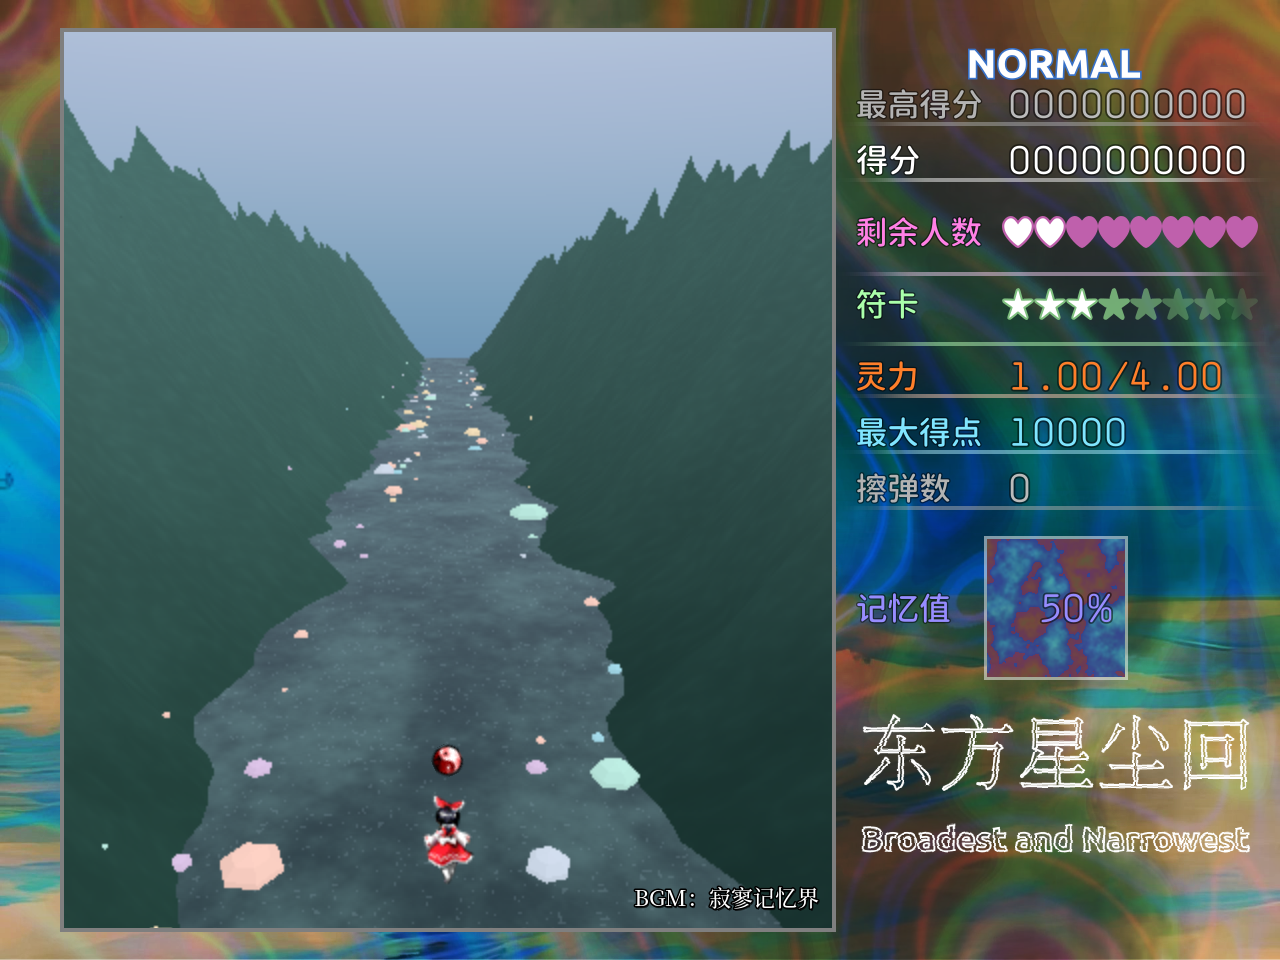
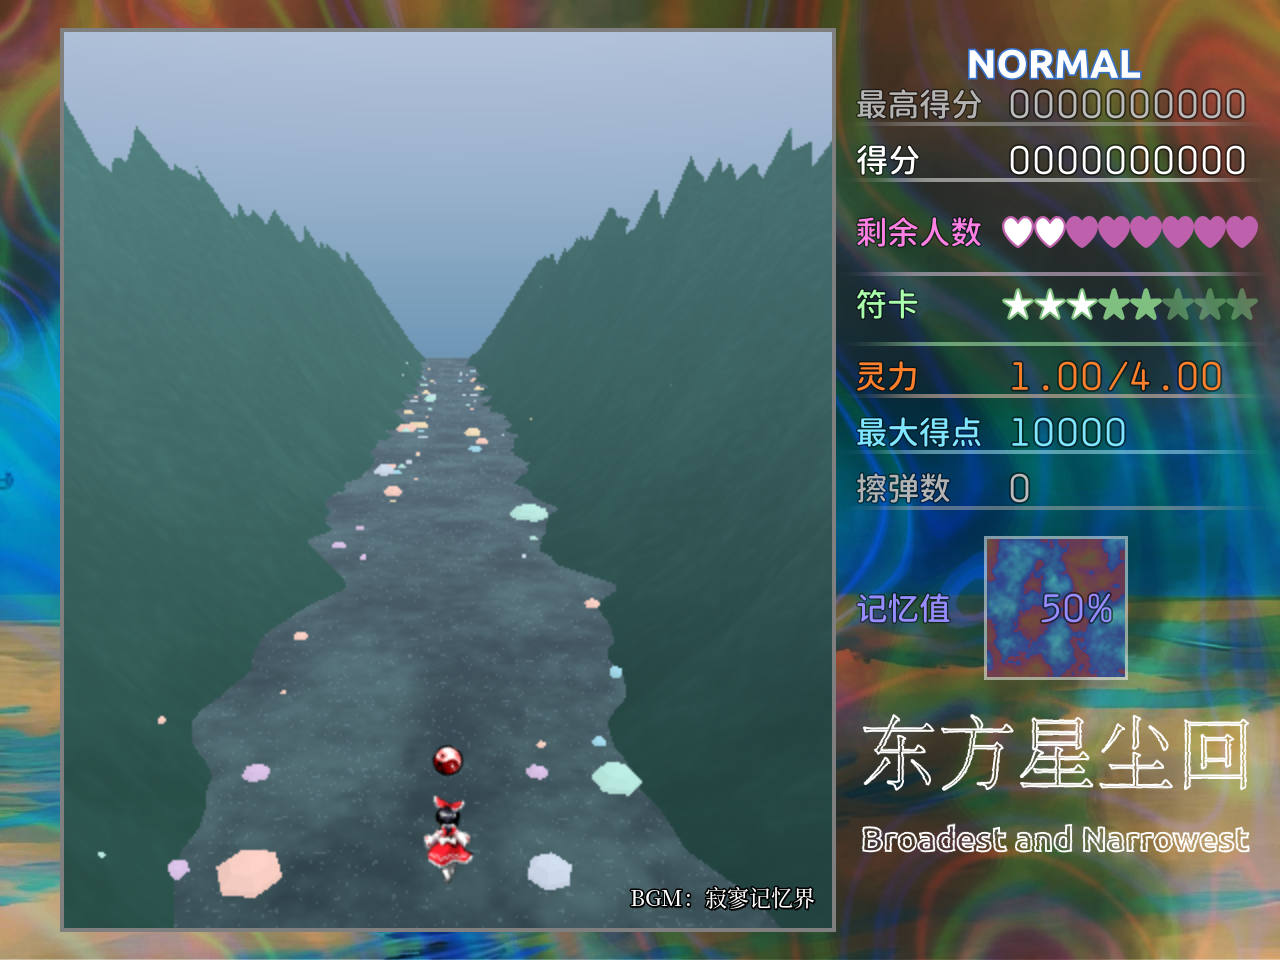
feat(background): drive stage4 sky light into valley materials

diff --git a/docs/BEST_PRACTICES_LOG.md b/docs/BEST_PRACTICES_LOG.md
@@ -124,7 +124,7 @@
 - **主菜单残留记忆值**：持久 HUD 的 `Memory` 是嵌套 CanvasLayer，只隐藏外层 GameUI 不会隐藏它；新增 `GameUI.set_hud_visible()` 同时同步 Memory 层，回归测试覆盖。
 - **再次播放录像**：回放结束页重播前设置 `_continuing_replay = true`，避免旧 GameScene `_exit_tree` 把刚启动的 ReplaySession stop 掉；同时 `_exit_tree` 不再在继续回放时 `PracticeSession.finish()`，否则符卡练习录像会被清空、新场景退回普通 Stage 1。
 - **回放水印渐隐**：REPLAY 标的呼吸 tween 会每帧重写 alpha，HUD 统一淡出/隐藏时先停掉它；回归测试覆盖 `set_hud_alpha(0)` 时标也归零。
-- **Stage4 山谷背景原型**：新增 `stage04_valley_sky.tscn`（无限山谷 + 暗色远山 + SkyDome 微彩天空），Stage04 暂时切到该背景；天空用 unshaded 天穹材质绕开 SubViewport 环境 sky 不生效的问题。按作者反馈移除谷底/森林线、天空改竖直色带避免接缝；随后移除 FarRidge，改为天空漫射光 + 山壁距离渐隐，让谷道尽头留空；山壁按高度接收冷色天光，避免整片死黑。注意 shader 注释必须用 `//`，误用 `##` 会导致整片山谷编译失败不渲染。山壁宽条纹来自 6 列顶点上的顶点色/法线插值，已把颜色与天光改为屏幕纵向渐变，避免三角面带。谷底加了一整块雾化湿石地面 + MultiMesh 彩色石块，谷宽/镜头也放宽压低；地面 shader 按 TIME 滚动、彩石逐帧向镜头移动并回收，速度与 InfiniteValley 的 forward_speed 对齐；山壁石头先全部改回地面边缘，避免因随机高度悬空；彩石改为拆面的低模岩块并加固定方向面光，另外放大少量贴边巨石。最终改用 Godot 原生 Environment Depth Fog（全局作用于山壁/地面/石头），不再维护手写距离雾 shader；高度雾试过后太容易糊地面，暂关。山壁改用程序化 triplanar 岩壁纹理（后续按作者反馈把纹理对比压浅）；石头 shader 提亮反照率并加少量自发光。`InfiniteValley.sample_wall()` 统一给出山壁表面点，贴壁石按它放置并逐帧重新采样高度，不再悬空。
+- **Stage4 山谷背景原型**：新增 `stage04_valley_sky.tscn`（无限山谷 + 暗色远山 + SkyDome 微彩天空），Stage04 暂时切到该背景；天空用 unshaded 天穹材质绕开 SubViewport 环境 sky 不生效的问题。按作者反馈移除谷底/森林线、天空改竖直色带避免接缝；随后移除 FarRidge，改为天空漫射光 + 山壁距离渐隐，让谷道尽头留空；山壁按高度接收冷色天光，避免整片死黑。注意 shader 注释必须用 `//`，误用 `##` 会导致整片山谷编译失败不渲染。山壁宽条纹来自 6 列顶点上的顶点色/法线插值，已把颜色与天光改为屏幕纵向渐变，避免三角面带。谷底加了一整块雾化湿石地面 + MultiMesh 彩色石块，谷宽/镜头也放宽压低；地面 shader 按 TIME 滚动、彩石逐帧向镜头移动并回收，速度与 InfiniteValley 的 forward_speed 对齐；山壁石头先全部改回地面边缘，避免因随机高度悬空；彩石改为拆面的低模岩块并加固定方向面光，另外放大少量贴边巨石。最终改用 Godot 原生 Environment Depth Fog（全局作用于山壁/地面/石头），不再维护手写距离雾 shader；高度雾试过后太容易糊地面，暂关。天空光通过 `shader_globals` 的 `stage04_sky_light` 传给山壁/地面/石头，天空 shader 改色后谷面会同步染色。山壁改用程序化 triplanar 岩壁纹理（后续按作者反馈把纹理对比压浅）；石头 shader 提亮反照率并加少量自发光。`InfiniteValley.sample_wall()` 统一给出山壁表面点，贴壁石按它放置并逐帧重新采样高度，不再悬空。
 - **回放水印**：GameUI 从 `front02.png` 的 `(64,416,156,32)` 切出 REPLAY 标，放在场地中心（448,480），仅 `ReplaySession.is_playing()` 时显示；alpha 在 0.10–0.24 间 1.2s 呼吸。
 - **HUD 淡出 freed object**：`set_hud_alpha` 原来先 `as CanvasItem` 再判有效，节点被场景释放时会报 cast freed object；改为先 `is_instance_valid` 并从缓存剔除，再转换。
 - **暂停页字体**：去掉暂停菜单所有 Label 的黑色描边（标题/副标题/选项/确认面板），文字直接压在框内模糊画面上。
